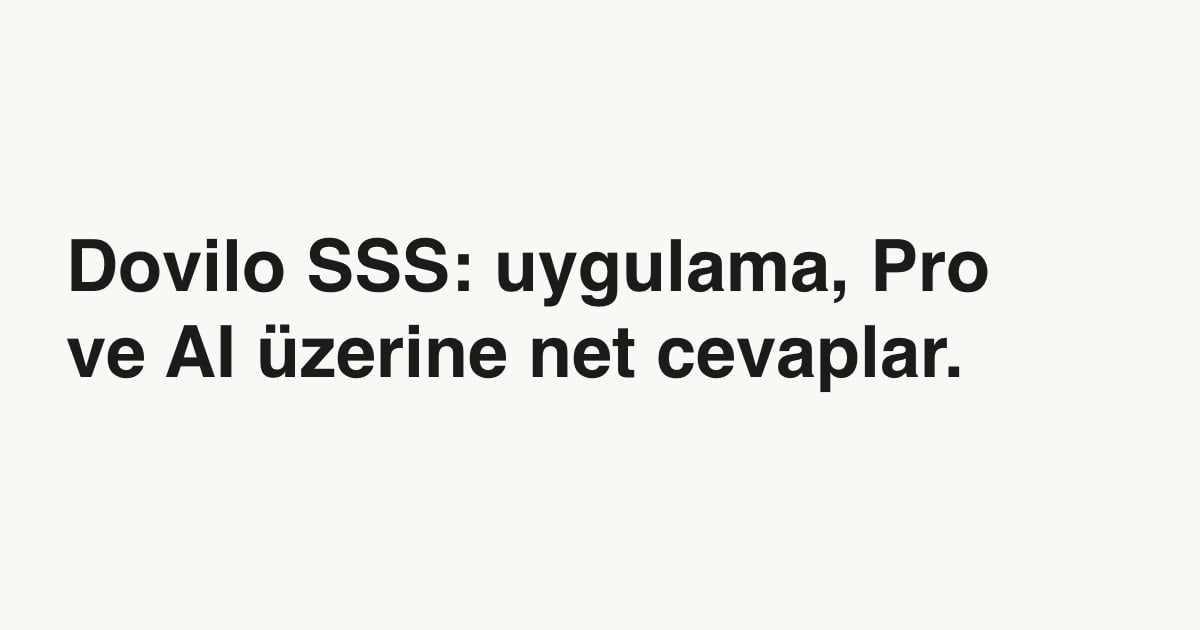
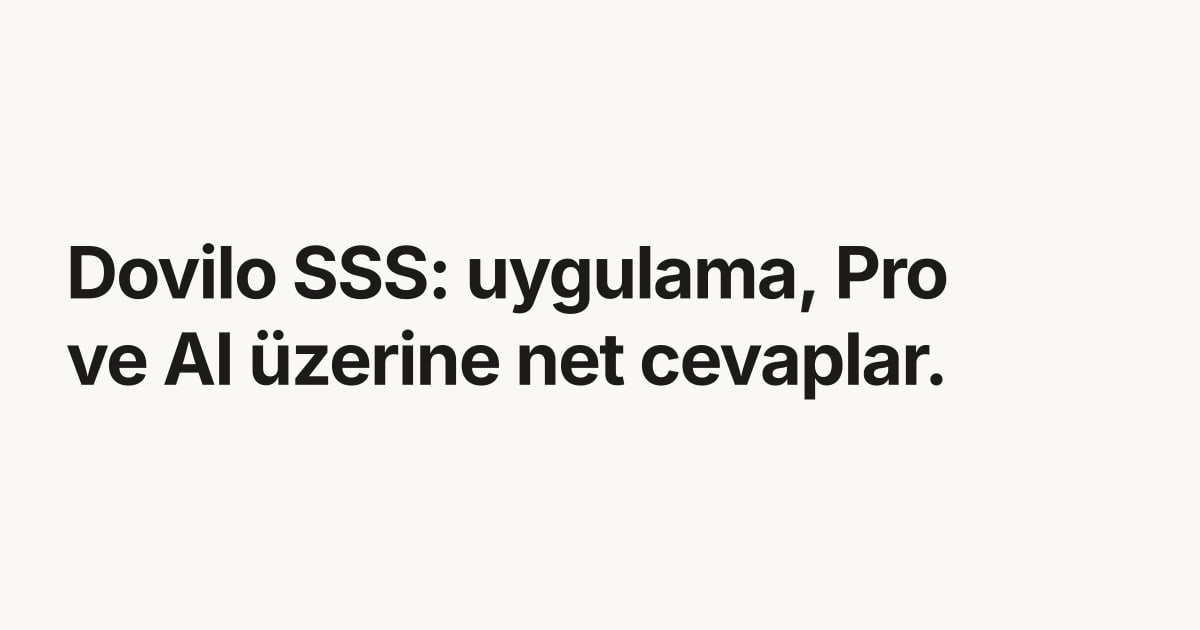
Share cards: every card rebuilt in Inter, og-card.jpg on the light palette, og-faq.jpg for the English FAQ
27 cards from npm run build:og. /faq points og:image and twitter:image at
og-faq.jpg; /docs/mcp/ and the blog indexes keep og-card.jpg, now the light
city card.

Changed region(s): [[0.0617, 0.3619, 0.8325, 0.6333]]

diff --git a/faq/index.html b/faq/index.html
@@ -24,7 +24,7 @@
   <meta property="og:url" content="https://dovilo.app/faq">
   <meta property="og:title" content="FAQ: straight answers on the app, Pro and AI - Dovilo">
   <meta property="og:description" content="How tasks, focus sessions, ambience, the city, Pro and the MCP integration work in Dovilo.">
-  <meta property="og:image" content="https://dovilo.app/og-card.jpg">
+  <meta property="og:image" content="https://dovilo.app/og-faq.jpg">
   <meta property="og:image:width" content="1200">
   <meta property="og:image:height" content="630">
   <meta property="og:site_name" content="Dovilo">
@@ -37,7 +37,7 @@
   <meta name="twitter:site" content="@doviloapp">
   <meta name="twitter:title" content="FAQ: straight answers on the app, Pro and AI - Dovilo">
   <meta name="twitter:description" content="How tasks, focus sessions, ambience, the city, Pro and the MCP integration work in Dovilo.">
-  <meta name="twitter:image" content="https://dovilo.app/og-card.jpg">
+  <meta name="twitter:image" content="https://dovilo.app/og-faq.jpg">
 
   <meta name="color-scheme" content="light">
   <meta name="theme-color" content="#FAF8F4">
